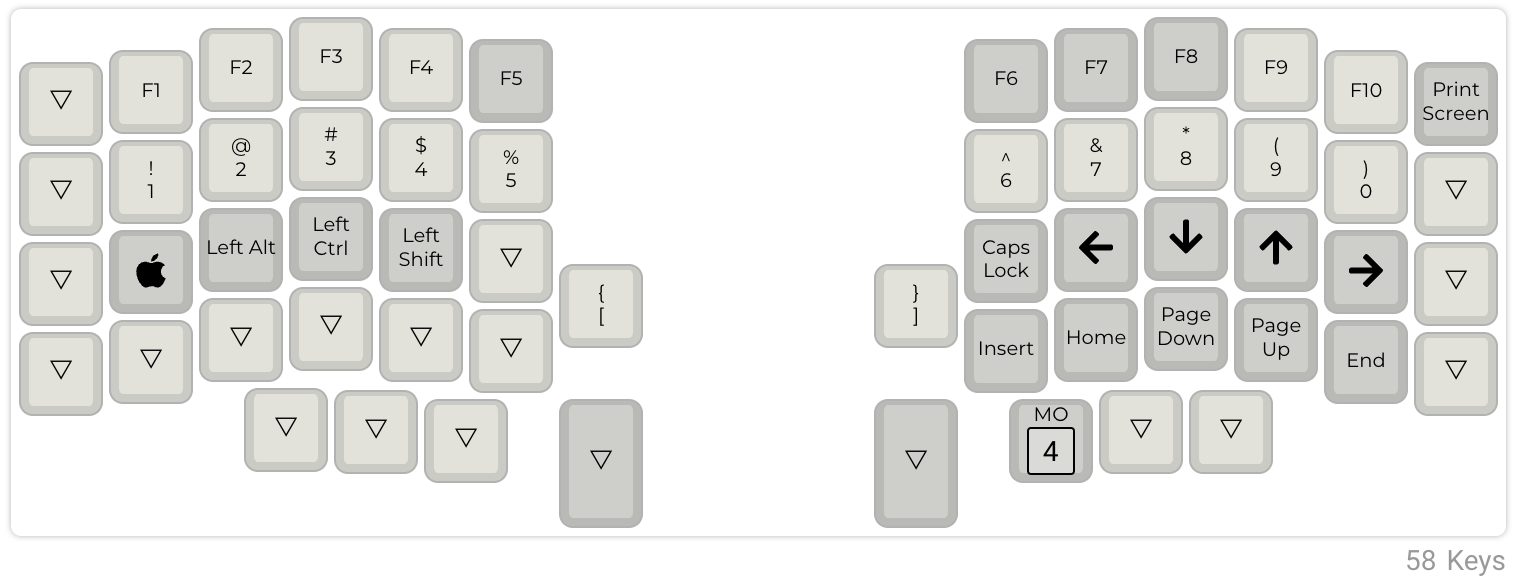
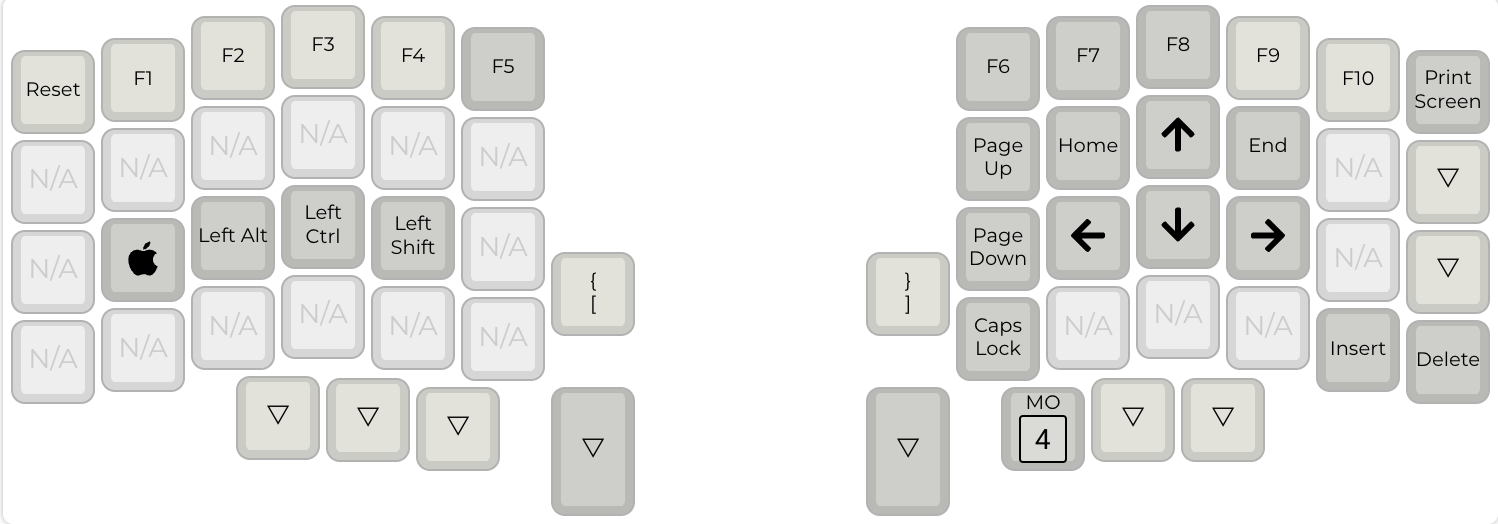
catching this up to dizave42

diff --git a/keymap.c b/keymap.c
@@ -88,7 +88,7 @@ const uint16_t PROGMEM keymaps[][MATRIX_ROWS][MATRIX_COLS] = {
  * ,-----------------------------------------.                    ,-----------------------------------------.
  * | boot |  F1  |  F2  |  F3  |  F4  |  F5  |                    |  F6  |  F7  |  F8  |  F9  | F10  | pscr |
  * |------+------+------+------+------+------|                    |------+------+------+------+------+------|
- * |      |  1   |  2   |  3   |  4   |  5   |                    | pgup | home |  up  | end  |      |      |
+ * |      |      |      |      |      |      |                    | pgup | home |  up  | end  |      |      |
  * |------+------+------+------+------+------|                    |------+------+------+------+------+------|
  * |      | gui  | alt  | ctrl | shft |      |-------.    ,-------| pgdn | left | down |right |      |      |
  * |------+------+------+------+------+------|   [   |    |    ]  |------+------+------+------+------+------|
@@ -107,11 +107,11 @@ const uint16_t PROGMEM keymaps[][MATRIX_ROWS][MATRIX_COLS] = {
 ),
 /*  NUMBERS
  * ,-----------------------------------------.                    ,-----------------------------------------.
- * |DZ_LAW|      |      |      |      |      |                    |      |      |      |      |      |qwerty|
+ * |      |      |      |      |      |      |                    |      |      |      |      |      |qwerty|
  * |------+------+------+------+------+------|                    |------+------+------+------+------+------|
  * |      |   [  |  7   |  8   |  9   |  ]   |                    |      |      |   (  |  )   |      |colmak|
  * |------+------+------+------+------+------|                    |------+------+------+------+------+------|
- * |      |   ;  |  4   |  5   |  6   |  =+  |-------.    ,-------|      | RSFT | RCTL | LALT | RGUI |      |
+ * |DZ_LAW|   ;  |  4   |  5   |  6   |  =+  |-------.    ,-------|      | RSFT | RCTL | LALT | RGUI |      |
  * |------+------+------+------+------+------|   [   |    |    ]  |------+------+------+------+------+------|
  * |      |   +  |  1   |  2   |  3   |  -   |-------|    |-------|      |      |   {  |  }   |      |DZ_WIN|
  * `-----------------------------------------/       /     \      \-----------------------------------------'
@@ -121,9 +121,9 @@ const uint16_t PROGMEM keymaps[][MATRIX_ROWS][MATRIX_COLS] = {
  */
 
 [_NUMBERS] = LAYOUT(
-  DZ_LAW , KC_F1,   KC_F2,   KC_F3,   KC_F4, KC_F5,                       KC_F6,   KC_F7,   KC_F8,   KC_F9,   KC_F10,  DZ_QWTY,
-  DZ_LAW , KC_LBRC, KC_7,    KC_8,    KC_9,  KC_RBRC,                     XXXXXXX, XXXXXXX, KC_LPRN, KC_RPRN, XXXXXXX, DZ_CLMK,
-  _______, KC_SCLN, KC_4,    KC_5,    KC_6,  KC_EQL,                      XXXXXXX, KC_RSFT, KC_RCTL, KC_LALT, KC_RGUI, XXXXXXX,
+  _______ , KC_F1,   KC_F2,   KC_F3,   KC_F4, KC_F5,                       KC_F6,   KC_F7,   KC_F8,   KC_F9,   KC_F10,  DZ_QWTY,
+  _______ , KC_LBRC, KC_7,    KC_8,    KC_9,  KC_RBRC,                     XXXXXXX, XXXXXXX, KC_LPRN, KC_RPRN, XXXXXXX, DZ_CLMK,
+   DZ_LAW, KC_SCLN, KC_4,    KC_5,    KC_6,  KC_EQL,                      XXXXXXX, KC_RSFT, KC_RCTL, KC_LALT, KC_RGUI, XXXXXXX,
   _______, KC_PPLS, KC_1,    KC_2,    KC_3,  KC_MINS, KC_LBRC, KC_RBRC,   XXXXXXX, XXXXXXX, KC_LCBR, KC_RCBR, XXXXXXX, DZ_WIN,
                              KC_COMM, KC_DOT, KC_0,  KC_SPC, _______,  _______, _______, _______
 ),

diff --git a/dizave.c b/dizave.c
@@ -137,6 +137,16 @@ bool dizave_process_record_user(uint16_t keycode, keyrecord_t *record)
       }
       return false;
 
+    case DZ_CLSE:
+      if (record->event.pressed) {
+        if (is_mac()) {
+          SEND_STRING(SS_LGUI("q"));
+        } else {
+          SEND_STRING(SS_LALT(SS_TAP(X_F4)));
+        }
+      }
+      return false;
+
     case DZ_NMSA:
       if (record->event.pressed) {
         SEND_STRING("NMSA 1978, ");
